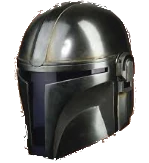
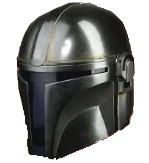
mando3

diff --git a/index.html b/index.html
@@ -100,7 +100,7 @@
             </ul>
           </div>
           <div class="docus-right">
-            <img src="./img/mandalorian2.webp" alt="Mandalorian" class="mandalorian-img">
+            <img src="./img/mandalorian.webp" alt="Mandalorian" class="mandalorian-img">
             <p class="mandalorian-text">Este es el camino</p>
           </div>
         </div>
